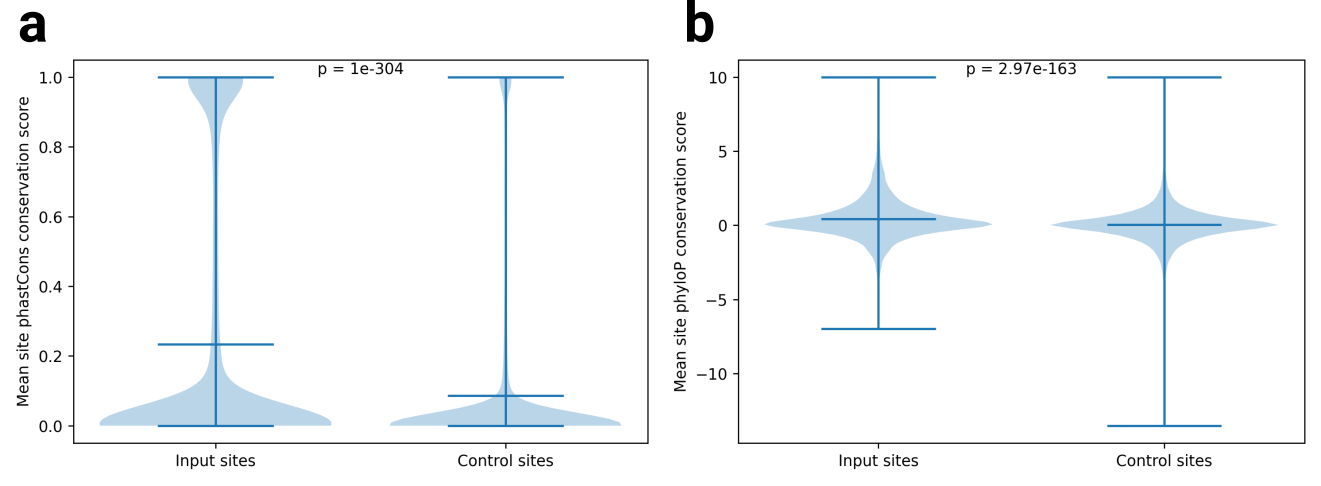
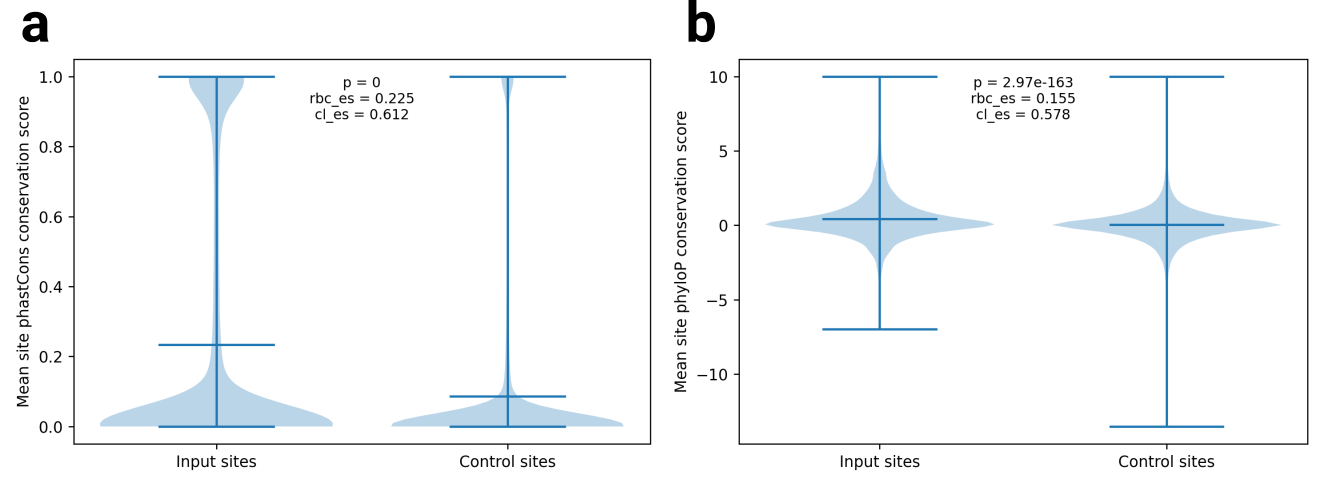
add con effect sizes to plot + readme descriptions

diff --git a/rbpbench/benchlib.py b/rbpbench/benchlib.py
@@ -1168,6 +1168,8 @@ def get_val_dic_stats(val_dic):
 
 def create_con_sc_violin_plot(in_scores, control_scores, plot_out, 
                               pval=1.0,
+                              rbc_es=0.0,
+                              cl_es=0.5,
                               con_type="phastCons",
                               in_id="Input sites",
                               control_id="Control sites",
@@ -1186,10 +1188,25 @@ def create_con_sc_violin_plot(in_scores, control_scores, plot_out,
     if plot_title:
         plt.title("%s Conservation Score Distribution" %(con_type))
 
-    # Optional: Add p-value to plot.
+    # Optional: Add p-value + RBC + CL effect size values to plot.
+    # if add_pval:
+    #     plt.text(1.5, max(max(in_scores), max(control_scores)), f'p = {pval:.3g}', 
+    #             ha='center', va='bottom', fontsize=10)
     if add_pval:
-        plt.text(1.5, max(max(in_scores), max(control_scores)), f'p = {pval:.3g}', 
-                ha='center', va='bottom', fontsize=10)
+        y_pos = max(max(in_scores), max(control_scores))
+        stats_text = (
+            f"p = {pval:.3g}\n"
+            f"rbc_es = {rbc_es:.3f}\n"
+            f"cl_es = {cl_es:.3f}"
+        )
+        plt.text(
+            1.5,
+            y_pos,
+            stats_text,
+            ha='center',
+            va='top',
+            fontsize=9
+        )
 
     plt.tight_layout()
     # plt.show()
@@ -1760,6 +1777,8 @@ def compare_conservation_scores(args,
 
         create_con_sc_violin_plot(in_scores, control_scores, pc_plot_path, 
                                   pval=pc_pval,
+                                  rbc_es=pc_rbc_es,
+                                  cl_es=pc_cl_es,
                                   con_type="phastCons",
                                   add_pval=True,
                                   plot_title=False,
@@ -1837,6 +1856,8 @@ def compare_conservation_scores(args,
 
         create_con_sc_violin_plot(in_scores, control_scores, pp_plot_path, 
                                   pval=pp_pval,
+                                  rbc_es=pp_rbc_es,
+                                  cl_es=pp_cl_es,
                                   con_type="phyloP",
                                   add_pval=True,
                                   plot_title=False,
@@ -4043,7 +4064,7 @@ def read_fasta_into_dic_fast(fasta_file,
     {'reg_1': 'ACGUU', 'reg_2': 'UNGCAA'}
     >>> test_fasta = "test_data/test_bed.fa"
     >>> read_fasta_into_dic_fast(test_fasta, name_bed=True)
-    {'bed_id1': 'ACGUU', 'bed_id2': 'UNGCAA'}
+    {'bed_id1': 'ACGUUAC', 'bed_id2': 'UNGCAACA'}
     >>> test_fasta = "test_data/test_empty_seq.fa"
     >>> read_fasta_into_dic_fast(test_fasta)
     {'seq1': '', 'seq2': ''}
@@ -4751,7 +4772,7 @@ def sponge_search_regex_hits(seqs_dic, regex,
         df["gene_biotype"] = df["gene_id"].map(gn2type_dic).fillna("-")
 
     # Sort descending by percentile
-    df_sorted = df.sort_values(by="percentile_rank", ascending=False).reset_index(drop=True)
+    df_sorted = df.sort_values(by="hits_per_kb", ascending=False).reset_index(drop=True)
 
     return df_sorted
 

diff --git a/README.md b/README.md
@@ -743,7 +743,7 @@ for the comparison. Two sets of genomic sites in BED format have to be provided
 (input sites via `--in`, control sites via `--ctrl-in`).
 For each genomic site the average conservation score is taken (i.e., by averaging over all single position scores), 
 and the distributions of the two sets are compared using the Wilcoxon rank-sum test. 
-A low p-value indicates that input sites have significantly higher conservation scores (effect sizes are provided as well in the HTML report). 
+A low p-value indicates that input sites have significantly higher conservation scores, and two effect sizes (explained [here](#input-region-score-motif-enrichment-statistics)) for interpretating the p-values are provided as well. 
 This mode can thus be used e.g. to compare different sets of motif hit regions, 
 or sets from different peak callers. An HTML report is produced to summarize and visually inspect the results.
 
@@ -772,13 +772,13 @@ rbpbench con --in mrna_region_end_pos.bed --ctrl-in mrna_region_end_pos.50ds_shi
 ```
 
 Inspecting the conservation score distribution plots in `test_con_smrna_region_end_pos_con_sc_outc_out/report.rbpbench_con.html` confirms the assumption 
-(plus the p-values are highly significant as well):
+(p-values and effect sizes):
 
 
 <img src="docs/con.ex1.png" alt="Conservation score distribution comparison"
   title="Conservation score distribution comparison" width="800" />
 
-**Fig. 17:** Comparison of phastCons and phyloP conservation score distributions between input sites (mRNA region end positions) and control sites (mRNA region end positions shifted downstream by 50 nt).
+**Fig. 17:** Comparison of phastCons and phyloP conservation score distributions between input sites (mRNA region end positions) and control sites (mRNA region end positions shifted downstream by 50 nt). `p`: Wilcoxon rank-sum test p-value `rbc_es`: Rank-Biserial Correlation effect size `cl_es`: Common Language effect size (explained [here](#input-region-score-motif-enrichment-statistics)).
 
 
 #### Searching for sponge transcripts
@@ -804,7 +804,7 @@ The top 10 transcripts ranked by hits per kilo base (kb) nt we get are the follo
 | ENST00000369489 | CD58 | 1086 | 3 | 2.7624 | protein_coding |
 | ENST00000565493 | NORAD | 5401 | 15 | 2.7773 | lncRNA |
 
-It is known that NORAD, a highly conserved cytoplasmic lncRNA, can sequester PUMILIO proteins (PUM1 and PUM2) and modulate the expression of their target genes ([Lee et al. 2016](https://doi.org/10.1016/j.cell.2015.12.017)). This shows that a simple and fast search approach like this can be used to identify potential sponge transcripts for any given (RBP) motif of interest, which can then be further investigated. Additional options are available, such as defining a minimum spacer length between regex hits (`--min-spacer-len`), or a minimum regex hit count per transcript (`--min-hit-count`) for transcripts to be included in the output table. Moreover, if GTF annotated transcripts are used, specific subsets can be selected for search via `--select-mode` (all, only mRNAs, only 3'UTRs). Also note that regular expressions can describe complex binding patterns, including variable length spacers, such as the IGF2BP3 binding motif `GGC.{15,25}CA.{7,20}CA.{15,25}GGC.{2,8}[CA]{4}` described in [Schneider et al. 2019](https://doi.org/10.1038/s41467-019-09769-8).
+It is known that NORAD, a highly conserved cytoplasmic lncRNA, can sequester PUMILIO proteins (PUM1 and PUM2) and modulate the expression of their target genes ([Lee et al. 2016](https://doi.org/10.1016/j.cell.2015.12.017)). This shows that a simple and fast search approach like this can be used to identify potential sponge transcripts for any given (RBP) motif of interest, which can then be further investigated. Additional options are available, such as defining a minimum spacer length between regex hits (`--min-spacer-len`), or a minimum regex hit count per transcript (`--min-hit-count`) for transcripts to be included in the output table. Moreover, if GTF annotated transcripts are used, specific subsets can be selected for search via `--select-mode` (all, only mRNAs, only 3'UTRs). Also note that regular expressions can describe complex binding patterns, including variable length spacers, such as the IGF2BP3 binding motif `GGC.{15,25}CA.{7,20}CA.{15,25}GGC.{2,8}[CA]{4}` described in [Schneider et al. 2019](https://doi.org/10.1038/s41467-019-09769-8), an even structure patterns (see [regular expressions](#regular-expressions) for more details).
 
 #### Comparing motif hits between transcript isoforms
 
@@ -1346,9 +1346,9 @@ the test thus can give clues on which RBPs preferentially bind to the provided r
 Note that the test is only informative if the scores are themselves informative w.r.t. RBP binding (e.g., not all the same), 
 or e.g. if not all or too many of the input regions contain motif hits. 
 For p-value interpretation, two test **effect sizes** are provided as well (RBC ES: rank-biserial correlation effect size, CL ES: common language effect size).
-RBC ES has a range from -1 to +1, where 0 means no effect, +1 means all hit region scores are greater than non-hit region scores, 
+**RBC ES** has a range from -1 to +1, where 0 means no effect, +1 means all hit region scores are greater than non-hit region scores, 
 and -1 means all hit region scores are smaller that non-hit region scores. 
-CL ES has a range 0 to +1. It denotes the probability that a random score from the hit region group exceeds one from the non-hit region group. 
+**CL ES** has a range 0 to +1. It denotes the probability that a random score from the hit region group exceeds one from the non-hit region group. 
 A CL ES of 0.5 means there is no effect, > 0.5 means hit region scores tend to be higher, and < 0.5 means hit region scores tend to be lower.
 
 The test results are output in the [output tables](#hit-statistics-table-files), as well as in the HTML reports.
@@ -1380,7 +1380,7 @@ be done via `--bed-sc-thr`.
 
 Considering the single motif level co-occurrences (`rbpbench enmo`, `rbpbench nemo`), 
 co-occurrence attribution is more strict, since it is only checked for motifs which are significantly enriched 
-in the input regions (details [here](#input-region-motif_enrichment-statistics)). 
+in the input regions (details [here](#input-region-motif-enrichment-statistics)). 
 Furthermore, in addition to `--min-motif-dist`, co-occurrences can be filtered 
 by motif pair similarity (only for MEME motif formatted sequence motifs, `--motif-sim-thr`), which 
 allows us to focus on co-occurrences with more dissimilar motifs. 
@@ -1461,8 +1461,8 @@ RBFOX2	clipper_idr	hepg2_eclip	batch_compare_test/RBFOX2.hepg2_eclip.clipper_idr
 RBFOX2	clipper_idr	k562_eclip	batch_compare_test/RBFOX2.k562_eclip.clipper_idr.bed
 ```
 Column 1 is the RBP ID, column 2 the method ID, column 3 the data ID, and column 4 the path 
-to the BED file containing the genomic regions (typically binding regions of the RBP determined through CLIPseq).
-In this example, method ID describes the peak calling methods, while data ID describes the CLIP protocol+cell type 
+to the BED file containing the genomic regions (typically binding regions of the RBP determined through CLIP-seq).
+In this example, method ID describes the peak calling methods, while data ID describes the CLIP-seq protocol + cell type 
 combination. From these, we ge the following to comparisons:
 
 1. compare the peak calling methods (i.e., their results) `clipper_idr`, `dewseq_w100_s5` with 
